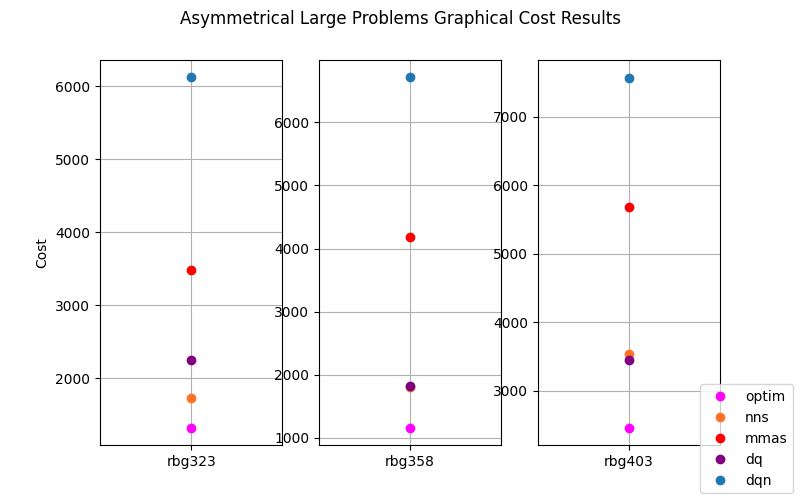
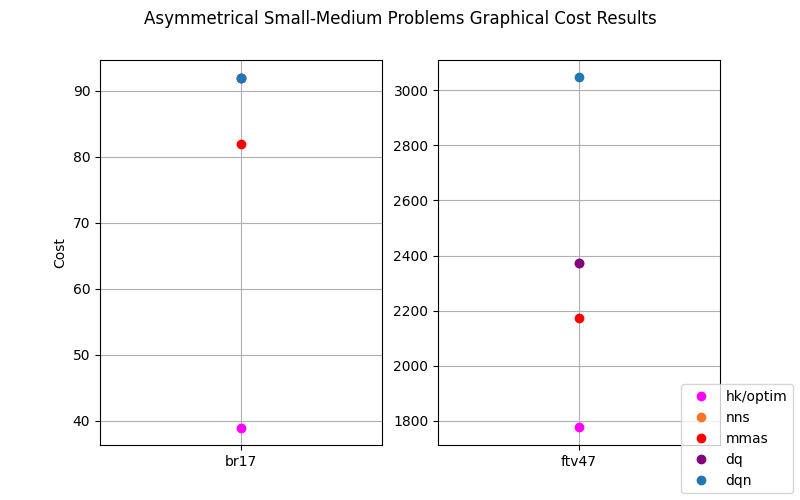
updated

diff --git a/final_report/plot_results.py b/final_report/plot_results.py
@@ -197,7 +197,7 @@ def plot_asymmetrical_large():
     mmas = [3488, 4180, 5685]
     dq = [2245, 1817, 3457]
     dqn = [6119, 6711, 7575]
-    fig, ax = plt.subplots(nrows=1, ncols=3, figsize=(8, 5), sharex=False, sharey=False)
+    fig, ax = plt.subplots(nrows=1, ncols=3, figsize=(10, 5), sharex=False, sharey=False)
     for i in range(len(problems_symmetric)):
         ax[i].plot(
             problems_symmetric[i], optimum[i], "o", color="magenta", label="optim"
@@ -214,7 +214,7 @@ def plot_asymmetrical_large():
     fig.legend(*ax[0].get_legend_handles_labels(), loc="lower right")
     ax[0].set_ylabel("Cost")
     fig.suptitle("Asymmetrical Large Problems Graphical Cost Results")
-    plt.savefig("final_report/png/asymmetric_small-medium.png")
+    plt.savefig("final_report/png/asymmetric_large.png")
     plt.show()
 
 if __name__ == "__main__":
